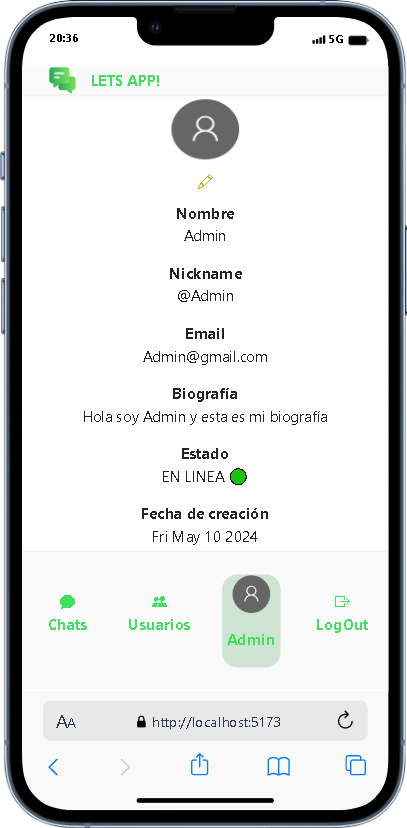
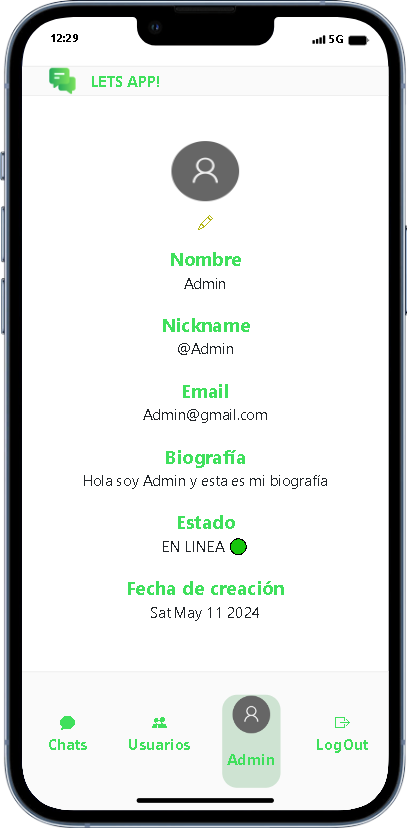
update:updating README and design

diff --git a/src/pages/Profile/Profile.jsx b/src/pages/Profile/Profile.jsx
@@ -111,7 +111,7 @@ export const Profile = () => {
                             <div className="modal-body">
 
                                 <div className="d-flex row justify-content-center align-items-center">
-                                    <label>Nombre</label>
+                                    <label className="fs-5">Nombre</label>
                                     <CustomInput
                                         type="text"
                                         name="name"
@@ -121,7 +121,7 @@ export const Profile = () => {
                                         changeEmit={inputHandler}
                                     // onBlurFunction={(e) => checkError(e)}
                                     />
-                                    <label>Biografía</label>
+                                    <label className="fs-5">Biografía</label>
                                     <CustomInput
                                         type="text"
                                         name="biography"
@@ -175,7 +175,7 @@ export const Profile = () => {
 
 
 
-                    <label>Nombre</label>
+                    <label className="fs-5">Nombre</label>
                     <p>{user.name}</p>
 
 
@@ -183,23 +183,23 @@ export const Profile = () => {
 
                 </div>
                 <div className="d-flex row justify-content-center align-items-center">
-                    <label>Nickname</label>
+                    <label className="fs-5">Nickname</label>
                     <p>{user.nickname}</p>
                 </div>
                 <div className="d-flex row justify-content-center align-items-center">
-                    <label>Email</label>
+                    <label className="fs-5">Email</label>
                     <p>{user.email}</p>
                 </div>
                 <div className="d-flex row justify-content-center align-items-center">
-                    <label>Biografía</label>
+                    <label className="fs-5">Biografía</label>
                     <p>{user.biography}</p>
                 </div>
                 <div className="d-flex row justify-content-center align-items-center">
-                    <label>Estado</label>
+                    <label className="fs-5">Estado</label>
                     {user.isActive === 0 ? (<p>DESCONECTADO 🔴</p>) : (<p>EN LINEA 🟢</p>)}
                 </div>
                 <div className="d-flex row justify-content-center align-items-center">
-                    <label>Fecha de creación</label>
+                    <label className="fs-5">Fecha de creación</label>
 
                     {new Date(user.created_at).toDateString()}
                 </div>

diff --git a/src/pages/UserProfileDetail/UserProfileDetail.jsx b/src/pages/UserProfileDetail/UserProfileDetail.jsx
@@ -161,7 +161,7 @@ export const UserProfileDetail = () => {
 
 
 
-                    <label>Nombre</label>
+                    <label className="fs-5">Nombre</label>
                     <p>{rdxUserDetail.user.name}</p>
 
 
@@ -169,23 +169,23 @@ export const UserProfileDetail = () => {
 
                 </div>
                 <div className="d-flex row justify-content-center align-items-center">
-                    <label>Nickname</label>
+                    <label className="fs-5">Nickname</label>
                     <p>{rdxUserDetail.user.nickname}</p>
                 </div>
                 <div className="d-flex row justify-content-center align-items-center">
-                    <label>Email</label>
+                    <label className="fs-5">Email</label>
                     <p>{rdxUserDetail.user.email}</p>
                 </div>
                 <div className="d-flex row justify-content-center align-items-center">
-                    <label>Biografía</label>
+                    <label className="fs-5">Biografía</label>
                     <p>{rdxUserDetail.user.biography}</p>
                 </div>
                 <div className="d-flex row justify-content-center align-items-center">
-                    <label>Estado</label>
+                    <label className="fs-5">Estado</label>
                     {rdxUserDetail.user.is_active === 0 ? (<p>DESCONECTADO 🔴</p>) : (<p>EN LINEA 🟢</p>)}
                 </div>
                 <div className="d-flex row justify-content-center align-items-center">
-                    <label>Fecha de creación</label>
+                    <label className="fs-5">Fecha de creación</label>
                     <p>{new Date(rdxUserDetail.user.created_at).toDateString()}</p>
                 </div>
                 <ToastContainer

diff --git a/src/pages/ChatDetail/ChatDetail.jsx b/src/pages/ChatDetail/ChatDetail.jsx
@@ -543,7 +543,7 @@ export const ChatDetail = () => {
 
                     </div>
                 </div>
-                <div className="d-flex row-1 mb-2  fixed-bottom  justify-content-center align-items-center">
+                <div className="d-flex row-1 mb-5  fixed-bottom  justify-content-center align-items-center ">
                     <div className="d-flex col  justify-content-center align-items-center">
                         <div className="d-flex col-11 justify-content-start align-items-center">
                             <textarea

diff --git a/src/pages/ChatDetail/ChatDetail.css b/src/pages/ChatDetail/ChatDetail.css
@@ -55,3 +55,4 @@
     border-radius: 1em;
     border: 0.1px solid black ;
 }
+
